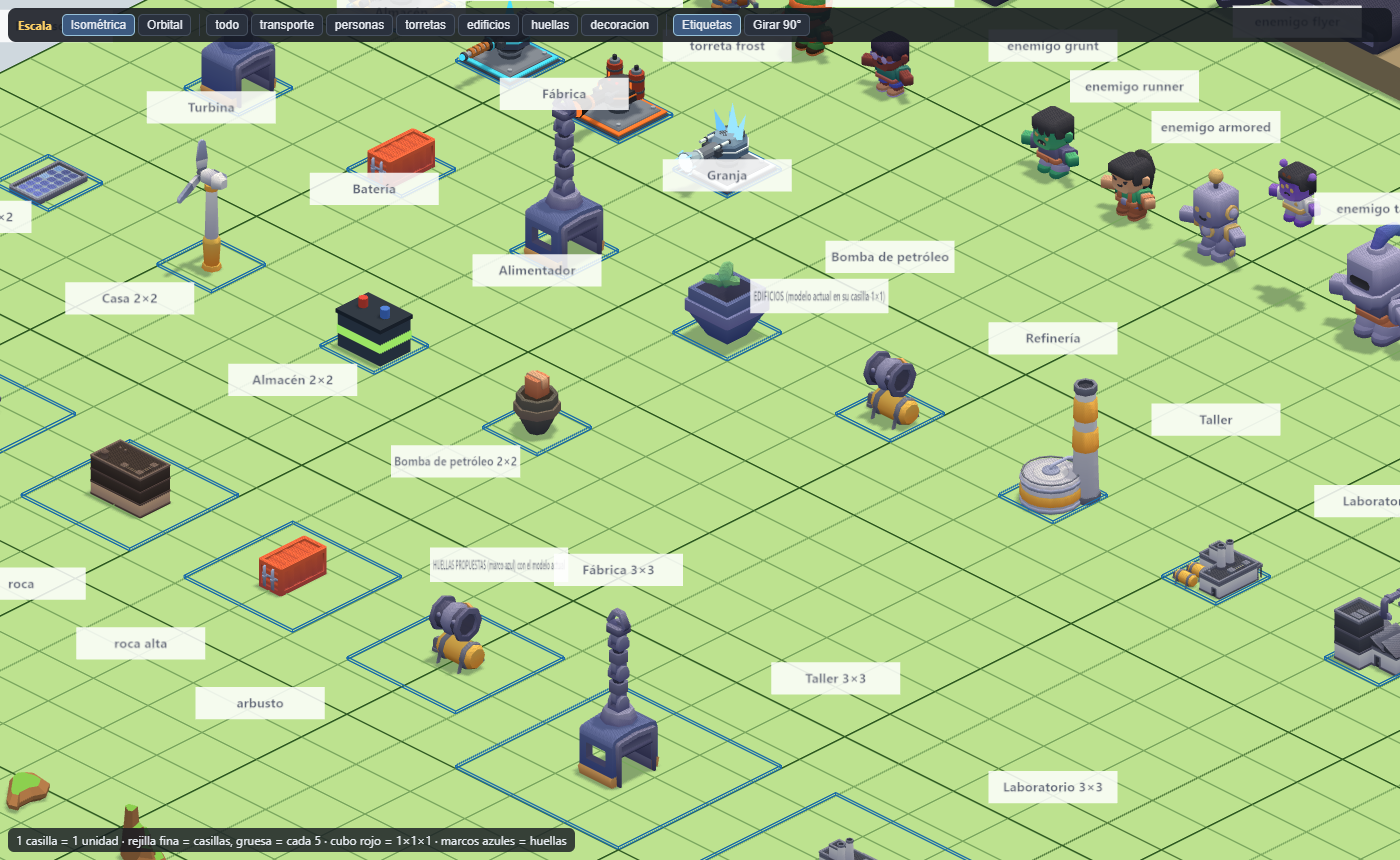
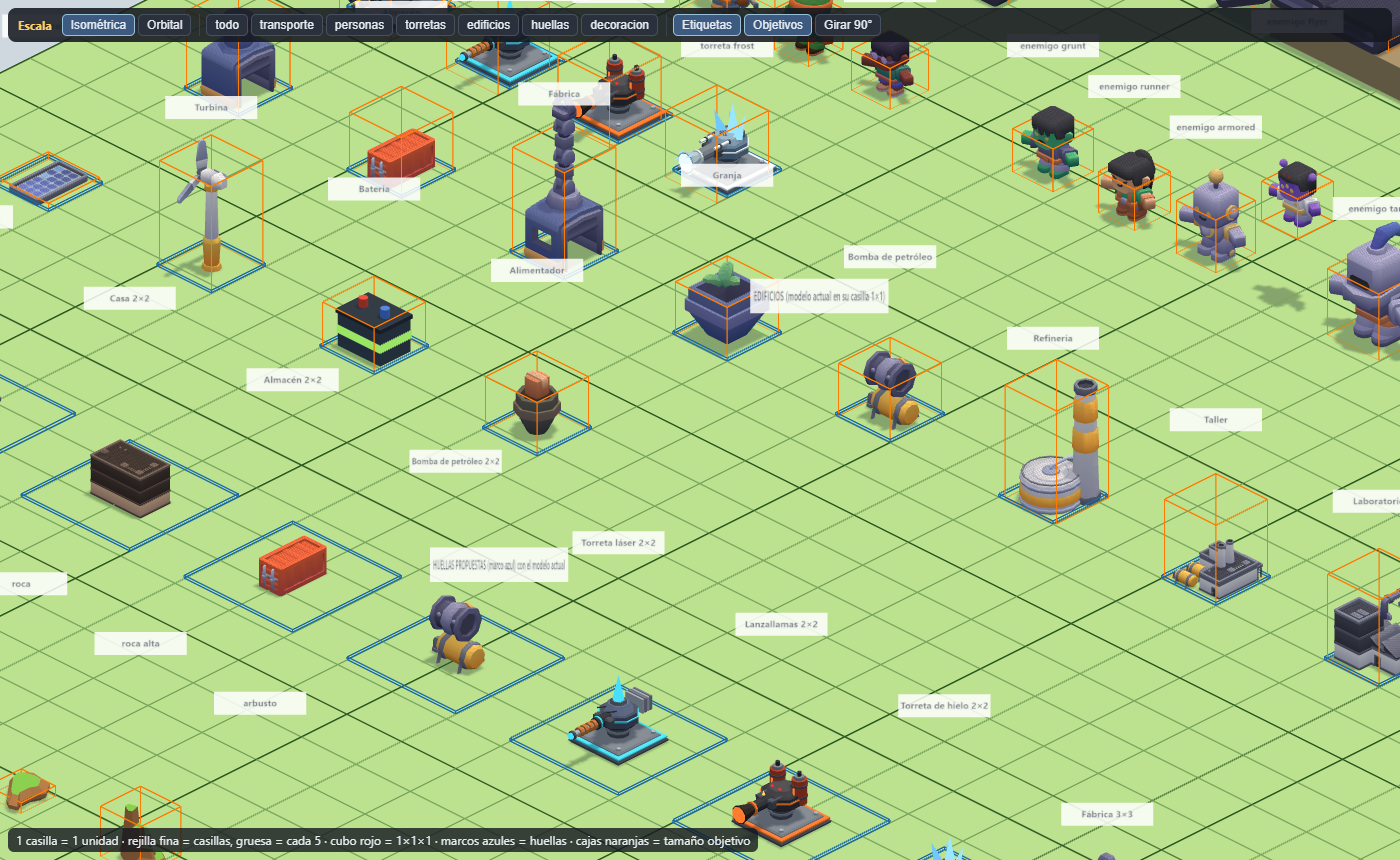
ESC-1: tabla de escala aprobada con cambios, cajas de objetivo en la galeria y registro de los detalles de encaje (ESC-6)

diff --git a/src/game/config.ts b/src/game/config.ts
@@ -207,6 +207,7 @@ export const CONFIG = {
     unit: 1,
     footprints: {
       drill: [2, 2], generator: [2, 2], house: [2, 2], storage: [2, 2], pump: [2, 2], core: [2, 2],
+      turret_laser: [2, 2], turret_fire: [2, 2], turret_frost: [2, 2],
       factory: [3, 3], workshop: [3, 3], laboratory: [3, 3], refinery: [3, 4], farm: [4, 4],
     } as Partial<Record<BuildKind | 'core', [number, number]>>,
     /**
@@ -215,26 +216,36 @@ export const CONFIG = {
      * las piezas encajen. Los edificios caben en su casilla (≤ `maxWidth`); cuando haya huellas se multiplican por ellas.
      */
     targets: {
-      belt: { w: 0.6, h: 0.15 }, belt_curve: { w: 0.6, h: 0.15 }, belt_fast: { w: 0.6, h: 0.15 }, belt_ramp: { w: 0.6, h: 0.15 },
+      belt: { w: 0.65, h: 0.18 }, belt_curve: { w: 0.65, h: 0.18 }, belt_fast: { w: 0.65, h: 0.18 }, belt_ramp: { w: 0.65, h: 0.18 },
       elevator: { w: 0.85, h: 1.2 },
-      pipeline: { w: 0.35, h: 0.42 }, pipeline_curve: { w: 0.35, h: 0.42 }, pipeline_t: { w: 0.35, h: 0.42 },
+      pipeline: { w: 0.35, h: 0.45 }, pipeline_curve: { w: 0.35, h: 0.45 }, pipeline_t: { w: 0.35, h: 0.45 },
       pole: { w: 0.7, h: 1.4 },
-      item_lump: { w: 0.24 }, item_log: { w: 0.28 }, item_slab: { w: 0.28 }, item_disc: { w: 0.24 }, item_shell: { w: 0.2 }, item_crate: { w: 0.22 },
+      item_lump: { w: 0.22 }, item_log: { w: 0.25 }, item_slab: { w: 0.25 }, item_disc: { w: 0.22 }, item_shell: { w: 0.18 }, item_crate: { w: 0.22 },
       npc_constructor: { h: 0.62 }, npc_transporter: { h: 0.62 }, npc_operator: { h: 0.62 }, npc_mechanic: { h: 0.62 }, npc_researcher: { h: 0.62 },
       enemy_grunt: { h: 0.65 }, enemy_runner: { h: 0.62 }, enemy_armored: { h: 0.8 }, enemy_flyer: { h: 0.6 }, enemy_tank: { h: 1.0 },
-      turret_bullet: { w: 0.9, h: 1.0 }, turret_laser: { w: 0.9, h: 1.0 }, turret_fire: { w: 0.9, h: 1.0 }, turret_frost: { w: 0.9, h: 1.0 },
-      drill: { w: 0.9, h: 1.2 }, storage: { w: 0.9, h: 0.55 }, factory: { w: 0.95, h: 1.6 }, farm: { w: 0.9, h: 0.8 }, pump: { w: 0.85, h: 0.8 },
-      refinery: { w: 0.95, h: 1.7 }, workshop: { w: 0.95, h: 1.1 }, laboratory: { w: 0.95, h: 1.3 }, house: { w: 0.95, h: 1.1 },
-      generator: { w: 0.85, h: 0.9 }, solar: { w: 0.95, h: 0.12 }, turbine: { w: 0.8, h: 1.6 }, accumulator: { w: 0.8, h: 0.6 }, feeder: { w: 0.7, h: 0.8 },
-      core: { w: 1.8, h: 1.2 },
+      turret_bullet: { h: 1.0 }, turret_laser: { h: 1.0 }, turret_fire: { h: 1.0 }, turret_frost: { h: 1.0 },
+      turret_2x2: { w: 1.8, h: 1.3 },
+      drill: { h: 1.2 }, storage: { h: 0.9 }, factory: { h: 1.6 }, farm: { h: 0.8 }, pump: { h: 0.8 },
+      refinery: { h: 1.7 }, workshop: { h: 1.2 }, laboratory: { h: 1.3 }, house: { h: 1.1 },
+      generator: { h: 0.9 }, solar: { h: 0.12 }, turbine: { h: 1.6 }, accumulator: { h: 0.7 }, feeder: { h: 0.8 },
+      core: { h: 1.4 },
       wall_wood: { h: 0.7 }, wall_stone: { h: 0.85 }, wall_metal: { h: 1.0 }, wall_gate: { h: 1.0 },
-      tree_default: { h: 1.35 }, tree_oak: { h: 1.2 }, tree_pineTallA: { h: 1.45 }, tree_fat: { h: 1.2 }, tree_cone: { h: 1.5 },
+      tree_default: { h: 1.3 }, tree_oak: { h: 1.15 }, tree_pineTallA: { h: 1.3 }, tree_fat: { h: 1.1 }, tree_cone: { h: 1.3 },
       rock_largeA: { w: 0.63 }, rock_tallA: { w: 0.74 }, plant_bush: { w: 0.48 },
     } as Record<string, { w?: number; h?: number }>,
-    /** Límites: ningún edificio pasa de esta altura ni de este ancho (casillas 1×1); carril útil de la cinta para los objetos. */
+    /** Ancho de un edificio como fracción de su huella (95 %): el ancho objetivo es `fill` × lado de la huella, no un valor absoluto. */
+    fill: 0.95,
+    /** Alturas mínimas por tipo (casillas): ninguna persona (0,62) es más alta que un edificio pequeño. La fábrica 1,4–2,0 (chimeneas hasta 2,4). */
+    minHeight: { house: 1.0, storage: 0.9, workshop: 1.2, laboratory: 1.2, factory: 1.4 } as Partial<Record<BuildKind, number>>,
+    maxFactoryHeight: 2.0,
+    maxChimneyHeight: 2.4,
+    /** Árboles: alto 1,0–1,3 y copa de 0,8 de ancho como máximo; se vuelven transparentes si tapan cintas o edificios. */
+    tree: { minHeight: 1.0, maxHeight: 1.3, maxCanopy: 0.8 },
     maxBuildingHeight: 1.8,
     maxWidth: 1,
     beltLane: 0.5,
+    /** Objetos transportados: lado máximo entre estos valores, apoyados sobre la cinta. */
+    itemSize: [0.15, 0.25] as [number, number],
   },
   belt: { speed: 2, fastSpeed: 4, rampUpFactor: 0.5 },
   /** Ascensor de cintas: salva hasta `maxRise` niveles; mueve `speed` casillas de cinta por segundo (limitado) y necesita energía. */

diff --git a/src/view3d/galeria-escala.ts b/src/view3d/galeria-escala.ts
@@ -252,6 +252,27 @@ export async function startScaleGallery(host: HTMLElement): Promise<void> {
   scene.add(cube);
   label('cubo 1×1×1', 30.5, 1.7, 30.5, 0.4);
 
+  // ---------- cajas de los tamaños objetivo (naranja) ----------
+  const targetBoxes = new THREE.Group();
+  scene.add(targetBoxes);
+  for (const e of entries) {
+    const t = CONFIG.scale.targets[e.key];
+    if (!t || e.cat === 'huella') continue;
+    e.group.updateMatrixWorld(true);
+    const bb = new THREE.Box3().setFromObject(e.group);
+    const size = bb.getSize(new THREE.Vector3());
+    const c = bb.getCenter(new THREE.Vector3());
+    const linear = /^(belt|pipeline)/.test(e.key);
+    const w0 = t.w ?? (e.cat === 'edificio' || e.cat === 'torreta' ? CONFIG.scale.fill * Math.max(...e.cell) : undefined);
+    const k = w0 !== undefined && t.h === undefined ? w0 / Math.max(size.x, size.z) : t.h !== undefined && w0 === undefined ? t.h / size.y : 1;
+    const ww = w0 ?? Math.max(size.x, size.z) * k;
+    const hh = t.h ?? size.y * k;
+    const box = new THREE.LineSegments(new THREE.EdgesGeometry(new THREE.BoxGeometry(linear ? 1 : ww, hh, ww)), new THREE.LineBasicMaterial({ color: 0xff7a00 }));
+    const base = e.cat === 'objeto' ? bb.min.y : e.baseY;
+    box.position.set(c.x, base + hh / 2, c.z);
+    targetBoxes.add(box);
+  }
+
   // ---------- cámaras ----------
   const rig = new CameraRig();
   rig.yaw = BASE_YAW;
@@ -334,6 +355,10 @@ export async function startScaleGallery(host: HTMLElement): Promise<void> {
       labels.visible = on;
       render();
     },
+    targets: (on: boolean) => {
+      targetBoxes.visible = on;
+      render();
+    },
     yaw: (steps: number) => {
       rig.yaw = BASE_YAW + (steps * Math.PI) / 2;
       render();
@@ -347,7 +372,7 @@ export async function startScaleGallery(host: HTMLElement): Promise<void> {
     '<b>Escala</b>' +
     '<span class="grp"><button data-mode="iso" class="on">Isométrica</button><button data-mode="orbit">Orbital</button></span>' +
     `<span class="grp">${Object.keys(ZONES).map((z) => `<button data-zone="${z}">${z}</button>`).join('')}</span>` +
-    '<span class="grp"><button data-act="labels" class="on">Etiquetas</button><button data-act="yaw">Girar 90°</button></span>';
+    '<span class="grp"><button data-act="labels" class="on">Etiquetas</button><button data-act="targets" class="on">Objetivos</button><button data-act="yaw">Girar 90°</button></span>';
   let yawSteps = 0;
   bar.addEventListener('click', (ev) => {
     const t = (ev.target as HTMLElement).closest('button');
@@ -358,6 +383,9 @@ export async function startScaleGallery(host: HTMLElement): Promise<void> {
     else if (t.dataset.act === 'labels') {
       t.classList.toggle('on');
       api.labels(t.classList.contains('on'));
+    } else if (t.dataset.act === 'targets') {
+      t.classList.toggle('on');
+      (window as unknown as { __esc: { targets: (b: boolean) => void } }).__esc.targets(t.classList.contains('on'));
     } else if (t.dataset.act === 'yaw') api.yaw(++yawSteps);
   });
   void tint;

diff --git a/galeria-escala.html b/galeria-escala.html
@@ -21,7 +21,7 @@
   <body>
     <div id="v"></div>
     <div id="bar"></div>
-    <div id="msg">1 casilla = 1 unidad · rejilla fina = casillas, gruesa = cada 5 · cubo rojo = 1×1×1 · marcos azules = huellas</div>
+    <div id="msg">1 casilla = 1 unidad · rejilla fina = casillas, gruesa = cada 5 · cubo rojo = 1×1×1 · marcos azules = huellas · cajas naranjas = tamaño objetivo</div>
     <script type="module">
       import { startScaleGallery } from '/src/view3d/galeria-escala.ts';
       startScaleGallery(document.getElementById('v'));

diff --git a/docs/escala/informe.md b/docs/escala/informe.md
@@ -4,20 +4,20 @@ Unidad: **1 casilla = 1 unidad de Three.js** (`CONFIG.scale.unit`). Medidas en c
 
 | Tipo | Modelo | Tamaño actual (ancho × fondo × alto) | Tamaño objetivo | Factor de escala | Base (y mín.) |
 |---|---|---|---|---|---|
-| cinta | cinta recta | 1 × 1 × 0.49 | ancho 0.6, alto 0.15 | sección ×0.60, alto ×0.31 | **-0.09** (hundida) |
-| cinta | curva | 1 × 1 × 0.54 | ancho 0.6, alto 0.15 | sección ×0.60, alto ×0.28 | **-0.09** (hundida) |
-| cinta | cinta rápida | 1 × 1 × 0.49 | ancho 0.6, alto 0.15 | sección ×0.60, alto ×0.31 | **-0.09** (hundida) |
-| cinta | rampa (sube 1) | 1.073 × 1 × 0.921 | ancho 0.6, alto 0.15 | sección ×0.60, alto ×0.16 | **-0.09** (hundida) |
+| cinta | cinta recta | 1 × 1 × 0.49 | ancho 0.65, alto 0.18 | sección ×0.65, alto ×0.37 | **-0.09** (hundida) |
+| cinta | curva | 1 × 1 × 0.54 | ancho 0.65, alto 0.18 | sección ×0.65, alto ×0.33 | **-0.09** (hundida) |
+| cinta | cinta rápida | 1 × 1 × 0.49 | ancho 0.65, alto 0.18 | sección ×0.65, alto ×0.37 | **-0.09** (hundida) |
+| cinta | rampa (sube 1) | 1.073 × 1 × 0.921 | ancho 0.65, alto 0.18 | sección ×0.65, alto ×0.20 | **-0.09** (hundida) |
 | cinta | ascensor | 0.8 × 0.8 × 1.3 | ancho 0.85, alto 1.2 | ancho ×1.06, alto ×0.92 | 0 |
-| tubería | tubería recta | 1.01 × 0.65 × 0.618 | ancho 0.35, alto 0.42 | sección ×0.54, alto ×0.68 | **-0.059** (hundida) |
-| tubería | tubería curva | 0.83 × 0.83 × 0.618 | ancho 0.35, alto 0.42 | sección ×0.42, alto ×0.68 | **-0.059** (hundida) |
-| tubería | tubería T | 1.01 × 0.83 × 0.618 | ancho 0.35, alto 0.42 | sección ×0.42, alto ×0.68 | **-0.059** (hundida) |
+| tubería | tubería recta | 1.01 × 0.65 × 0.618 | ancho 0.35, alto 0.45 | sección ×0.54, alto ×0.73 | **-0.059** (hundida) |
+| tubería | tubería curva | 0.83 × 0.83 × 0.618 | ancho 0.35, alto 0.45 | sección ×0.42, alto ×0.73 | **-0.059** (hundida) |
+| tubería | tubería T | 1.01 × 0.83 × 0.618 | ancho 0.35, alto 0.45 | sección ×0.42, alto ×0.73 | **-0.059** (hundida) |
 | poste | poste | 0.74 × 0.26 × 1.45 | ancho 0.7, alto 1.4 | ancho ×0.95, alto ×0.97 | 0 |
-| objeto | objeto lump | 0.243 × 0.243 × 0.243 | ancho 0.24 | ancho ×0.99 | 0.349 |
-| objeto | objeto log | 0.28 × 0.13 × 0.13 | ancho 0.28 | ancho ×1.00 | 0.36 |
-| objeto | objeto slab | 0.28 × 0.2 × 0.07 | ancho 0.28 | ancho ×1.00 | 0.36 |
-| objeto | objeto disc | 0.24 × 0.24 × 0.07 | ancho 0.24 | ancho ×1.00 | 0.36 |
-| objeto | objeto shell | 0.12 × 0.12 × 0.2 | ancho 0.2 | ancho ×1.67 | 0.36 |
+| objeto | objeto lump | 0.243 × 0.243 × 0.243 | ancho 0.22 | ancho ×0.91 | 0.349 |
+| objeto | objeto log | 0.28 × 0.13 × 0.13 | ancho 0.25 | ancho ×0.89 | 0.36 |
+| objeto | objeto slab | 0.28 × 0.2 × 0.07 | ancho 0.25 | ancho ×0.89 | 0.36 |
+| objeto | objeto disc | 0.24 × 0.24 × 0.07 | ancho 0.22 | ancho ×0.92 | 0.36 |
+| objeto | objeto shell | 0.12 × 0.12 × 0.2 | ancho 0.18 | ancho ×1.50 | 0.36 |
 | objeto | objeto crate | 0.22 × 0.22 × 0.18 | ancho 0.22 | ancho ×1.00 | 0.36 |
 | persona | NPC constructor | 0.898 × 0.543 × 0.964 | alto 0.62 | alto ×0.64 | 0 |
 | persona | NPC transporter | 0.898 × 0.398 × 0.785 | alto 0.62 | alto ×0.79 | 0 |
@@ -29,30 +29,30 @@ Unidad: **1 casilla = 1 unidad de Three.js** (`CONFIG.scale.unit`). Medidas en c
 | enemigo | enemigo armored | 1.148 × 0.481 × 1.263 | alto 0.8 | alto ×0.63 | 0 |
 | enemigo | enemigo flyer | 0.898 × 0.398 × 0.816 | alto 0.6 | alto ×0.74 | 0 |
 | enemigo | enemigo tank | 1.496 × 0.946 × 1.587 | alto 1 | alto ×0.63 | 0 |
-| torreta | torreta bullet | 0.92 × 1.3 × 0.672 | ancho 0.9, alto 1 | ancho ×0.69, alto ×1.49 | 0 |
-| torreta | torreta laser | 0.92 × 1.355 × 1.015 | ancho 0.9, alto 1 | ancho ×0.66, alto ×0.99 | 0 |
-| torreta | torreta fire | 0.92 × 1.25 × 0.81 | ancho 0.9, alto 1 | ancho ×0.72, alto ×1.23 | 0 |
-| torreta | torreta frost | 0.92 × 1.3 × 1.01 | ancho 0.9, alto 1 | ancho ×0.69, alto ×0.99 | 0 |
-| edificio | Taladro | 0.68 × 0.85 × 1.133 | ancho 0.9, alto 1.2 | ancho ×1.06, alto ×1.06 | 0 |
-| edificio | Almacén | 0.43 × 0.95 × 0.402 | ancho 0.9, alto 0.55 | ancho ×0.95, alto ×1.37 | 0 |
+| torreta | torreta bullet | 0.92 × 1.3 × 0.672 | ancho 0.95, alto 1 | ancho ×0.73, alto ×1.49 | 0 |
+| torreta | torreta laser | 0.92 × 1.355 × 1.015 | ancho 0.95, alto 1 | ancho ×0.70, alto ×0.99 | 0 |
+| torreta | torreta fire | 0.92 × 1.25 × 0.81 | ancho 0.95, alto 1 | ancho ×0.76, alto ×1.23 | 0 |
+| torreta | torreta frost | 0.92 × 1.3 × 1.01 | ancho 0.95, alto 1 | ancho ×0.73, alto ×0.99 | 0 |
+| edificio | Taladro | 0.68 × 0.85 × 1.133 | ancho 0.95, alto 1.2 | ancho ×1.12, alto ×1.06 | 0 |
+| edificio | Almacén | 0.43 × 0.95 × 0.402 | ancho 0.95, alto 0.9 | ancho ×1.00, alto ×2.24 | 0 |
 | edificio | Fábrica | 0.72 × 0.9 × 2.38 | ancho 0.95, alto 1.6 | ancho ×1.06, alto ×0.67 | 0 |
-| edificio | Granja | 0.8 × 0.8 × 0.939 | ancho 0.9, alto 0.8 | ancho ×1.13, alto ×0.85 | 0 |
-| edificio | Bomba de petróleo | 0.8 × 0.5 × 0.884 | ancho 0.85, alto 0.8 | ancho ×1.06, alto ×0.90 | 0 |
+| edificio | Granja | 0.8 × 0.8 × 0.939 | ancho 0.95, alto 0.8 | ancho ×1.19, alto ×0.85 | 0 |
+| edificio | Bomba de petróleo | 0.8 × 0.5 × 0.884 | ancho 0.95, alto 0.8 | ancho ×1.19, alto ×0.90 | 0 |
 | edificio | Refinería | 0.912 × 0.95 × 1.711 | ancho 0.95, alto 1.7 | ancho ×1.00, alto ×0.99 | 0 |
-| edificio | Taller | 0.845 × 0.95 × 0.563 | ancho 0.95, alto 1.1 | ancho ×1.00, alto ×1.95 | 0 |
+| edificio | Taller | 0.845 × 0.95 × 0.563 | ancho 0.95, alto 1.2 | ancho ×1.00, alto ×2.13 | 0 |
 | edificio | Laboratorio | 0.95 × 0.738 × 1.026 | ancho 0.95, alto 1.3 | ancho ×1.00, alto ×1.27 | 0 |
 | edificio | Casa | 0.95 × 0.623 × 0.67 | ancho 0.95, alto 1.1 | ancho ×1.00, alto ×1.64 | 0 |
-| edificio | Generador | 0.5 × 0.8 × 0.909 | ancho 0.85, alto 0.9 | ancho ×1.06, alto ×0.99 | 0 |
+| edificio | Generador | 0.5 × 0.8 × 0.909 | ancho 0.95, alto 0.9 | ancho ×1.19, alto ×0.99 | 0 |
 | edificio | Panel solar | 0.557 × 0.95 × 0.082 | ancho 0.95, alto 0.12 | ancho ×1.00, alto ×1.46 | 0 |
-| edificio | Turbina | 0.483 × 0.9 × 1.848 | ancho 0.8, alto 1.6 | ancho ×0.89, alto ×0.87 | 0 |
-| edificio | Batería | 0.82 × 0.6 × 0.69 | ancho 0.8, alto 0.6 | ancho ×0.98, alto ×0.87 | 0 |
-| edificio | Alimentador | 0.62 × 0.62 × 0.832 | ancho 0.7, alto 0.8 | ancho ×1.13, alto ×0.96 | 0 |
-| edificio | núcleo (2×2) | 1.8 × 1.784 × 0.999 | ancho 1.8, alto 1.2 | ancho ×1.00, alto ×1.20 | 0 |
-| decoración | árbol | 0.755 × 0.654 × 1.708 | alto 1.35 | alto ×0.79 | 0 |
-| decoración | roble | 0.641 × 0.74 × 1.226 | alto 1.2 | alto ×0.98 | 0 |
-| decoración | pino | 0.367 × 0.372 × 1.453 | alto 1.45 | alto ×1.00 | 0 |
-| decoración | árbol grueso | 0.868 × 0.752 × 1.323 | alto 1.2 | alto ×0.91 | 0 |
-| decoración | pino grande | 0.662 × 0.662 × 1.788 | alto 1.5 | alto ×0.84 | 0 |
+| edificio | Turbina | 0.483 × 0.9 × 1.848 | ancho 0.95, alto 1.6 | ancho ×1.06, alto ×0.87 | 0 |
+| edificio | Batería | 0.82 × 0.6 × 0.69 | ancho 0.95, alto 0.7 | ancho ×1.16, alto ×1.01 | 0 |
+| edificio | Alimentador | 0.62 × 0.62 × 0.832 | ancho 0.95, alto 0.8 | ancho ×1.53, alto ×0.96 | 0 |
+| edificio | núcleo (2×2) | 1.8 × 1.784 × 0.999 | ancho 1.9, alto 1.4 | ancho ×1.06, alto ×1.40 | 0 |
+| decoración | árbol | 0.755 × 0.654 × 1.708 | alto 1.3 | alto ×0.76 | 0 |
+| decoración | roble | 0.641 × 0.74 × 1.226 | alto 1.15 | alto ×0.94 | 0 |
+| decoración | pino | 0.367 × 0.372 × 1.453 | alto 1.3 | alto ×0.89 | 0 |
+| decoración | árbol grueso | 0.868 × 0.752 × 1.323 | alto 1.1 | alto ×0.83 | 0 |
+| decoración | pino grande | 0.662 × 0.662 × 1.788 | alto 1.3 | alto ×0.73 | 0 |
 | decoración | roca | 0.628 × 0.812 × 0.208 | ancho 0.63 | ancho ×0.78 | 0 |
 | decoración | roca alta | 0.737 × 0.512 × 0.747 | ancho 0.74 | ancho ×1.00 | 0 |
 | decoración | arbusto | 0.475 × 0.475 × 0.293 | ancho 0.48 | ancho ×1.01 | 0 |

diff --git a/SPEC.md b/SPEC.md
@@ -880,3 +880,7 @@ Sólo capa visual y constantes de escala; la lógica y el equilibrio no cambian.
 - **Tabla de tamaños objetivo** (`CONFIG.scale.targets`, en casillas; informe completo en `docs/escala/informe.md`): cinta ancho 0,6 × alto 0,15 (1 de largo para que encajen); tubería diámetro 0,35 (con bridas 0,42 de alto); poste alto 1,4; objeto transportado 0,2–0,28; persona 0,62 de alto (enemigos 0,6–0,8, el *tank* 1,0); torretas 0,9 × 1,0; edificios ≤ 0,95 de ancho y 0,55–1,7 de alto según tipo (almacén y panel solar bajos, fábrica y refinería los mayores); muros 0,7–1,0; árboles 1,2–1,5; ningún edificio pasa de `maxBuildingHeight` = 1,8; carril útil de la cinta `beltLane` = 0,5.
 - **Hallazgos de la auditoría** (`docs/escala/medidas.json`, `tools/informe-escala.cjs`): la cinta mide **1 × 1 × 0,49** (casi un bloque de casilla entera) y su caja baja **0,09 por debajo del suelo**; las tuberías bajan 0,06; los objetos sobre la cinta (0,12–0,28) se apoyan a 0,35–0,36 con la cinta a 0,4 (se hunden); las personas miden 0,79–0,96 y el almacén 0,40 (la persona es más alta que el almacén); la fábrica mide 2,38 de alto por 0,72 de ancho; el muro de metal 1,47; los árboles 1,2–1,7.
 - **Galería de escala** (`/galeria-escala.html`, `src/view3d/galeria-escala.ts`): rejilla de casillas (fina) y cada 5 (gruesa), cubo rojo 1×1×1, y colocados a la vez: cintas (recta, curva, rápida, rampa), ascensor, tuberías (recta, curva, T), poste, un objeto de cada forma sobre la cinta, las cinco personas y enemigos, las cuatro torretas, todos los edificios con su casilla, las huellas propuestas, árboles, rocas, arbusto y muros. Vista isométrica fija (la del juego, con giro de 90°) y cámara orbital; zonas con botones. Para automatizar: `window.__esc` (`mode`, `focus`, `labels`, `yaw`, `report`). Capturas en `docs/escala/`.
+
+### Escala: tabla aprobada con cambios (15-11-2026) y detalles de encaje pedidos
+Cambios aprobados sobre la tabla (ya en `CONFIG.scale` y en el informe): (1) el ancho de un edificio es el **95 % de su huella** (`scale.fill`), no un valor absoluto; (2) alturas mínimas: casa ≥ 1,0, almacén ≥ 0,9, taller y laboratorio ≥ 1,2, fábrica 1,4–2,0 (chimeneas hasta 2,4) para que ninguna persona (0,62) sea más alta que un edificio pequeño; (3) **cinta 0,65 × 0,18** con bordes laterales más claros y objetos de 0,15–0,25 apoyados sobre la superficie (`itemSize`); (4) árboles de 1,0–1,3 de alto con copa ≤ 0,8 y **transparencia** cuando tapen cintas o edificios; (5) torretas 2×2 ≈ 1,8 × 1,3 (`turret_2x2`; laser, fuego y hielo pasan a 2×2 en las huellas propuestas, la de balas sigue 1×1); tubería diámetro 0,35 con bridas hasta 0,45; y se corrige el **hundimiento** (cinta −0,09, tuberías −0,06) con la misma comprobación para todo (Hito 3). Las cajas naranjas de la galería dibujan estos objetivos sobre cada modelo.
+**Detalles de encaje y referencia visual (nuevo encargo; se harán tras el visto bueno de la galería, en el Hito 6 `ESC-6`):** tomar como referencia `Preview.png` y `Preview (Variation A).png` del Factory Kit y de City Kit Industrial. (a) **Conectores físicos en los puertos:** tramo corto de cinta (`conveyor-sides`) que sobresale en los de cinta, tolva pequeña (`hopper-square`/`hopper-round`) como entrada de sólidos cuando quede bien, y `machine-connection-pipe`, `machine-connection-hole` o una brida de `pipe-large` en los de tubería; la cinta o tubería que se conecta encaja en la pieza sin huecos. (b) **Luz de estado** tipo semáforo si el kit la trae (verde, naranja, rojo según el estado, además del icono flotante y el diagnóstico). (c) **Conos** (`cone`) y marcas naranjas de suelo para obras y casillas prohibidas; **flechas** (`arrow*`, `arrow-rounded`) como indicador del sentido de los puertos y de las rutas de Conectar. (d) Opcional, baja prioridad: brazo robótico (`robot-arm-a/b`) animado en fábricas que producen y grúa (`crane`, `crane-lift`) en el almacén, sólo adorno. (e) **Se mantiene:** no usar máquinas, paredes ni estructuras grandes del Factory Kit como edificios del juego (sólo transporte y detalles pequeños) y las cajas (`box-*`) siguen reservadas para el aspecto de los materiales. **Disponibilidad:** en `public/assets/3d/factory/` ya están `conveyor-sides`, `hopper-*`, `machine-connection-*`, `pipe-large*`, `arrow`, `robot-arm-a/b`, `crane`; **faltan** (están en `kenney_factory-kit_3.0.zip` de Descargas, se copiarán sólo los usados con su licencia): `cone`, `arrow-rounded`, `crane-lift` y las `indicator-special-*` (marcas de suelo). No he encontrado en la lista un semáforo con ese nombre: se revisará la preview o se construirá por código.

diff --git a/PROGRESS.md b/PROGRESS.md
@@ -163,9 +163,10 @@ Regla: tras cada hito, tests + tipos + build en verde, commit y push a `main`.
 - [x] CON-B5. Resaltado de cadenas (`cadena.ts`: aguas arriba y abajo con flechas que corren), vista de logística (tecla L: mapa atenuado, todas las flechas de puertos y líneas por colores), texto de cada puerto bajo el ratón (tipo, sentido, estado, qué conectar), ayuda y guía actualizadas, y 3 tests (cadenas, empalme y guardado/carga de puertos y redes). **No hecho:** el bot de la guía sigue con su propio trazado (`guia-bot.ts connect`); no usa Conectar porque el núcleo aún no tiene puertos en `ports()`.
 
 ## Escala de la vista 3D (reglas en SPEC.md; sólo capa visual)
-- [x] ESC-0. Auditoría: unidad única (`CONFIG.scale`), medidas de todos los modelos (`docs/escala/medidas.json`), tabla objetivo y informe `docs/escala/informe.md`. **Parado: esperando visto bueno del informe.**
+- [x] ESC-0. Auditoría: unidad única (`CONFIG.scale`), medidas de todos los modelos (`docs/escala/medidas.json`), tabla objetivo y informe `docs/escala/informe.md`. Tabla aprobada con cambios (15-11-2026): `CONFIG.scale` actualizada. **Parado: esperando visto bueno de las capturas.**
 - [x] ESC-1. Galería de escala `/galeria-escala.html` (isométrica fija y orbital) y capturas en `docs/escala/`. **Parado: esperando visto bueno.**
 - [ ] ESC-2. Cintas, tuberías, postes y objetos transportados con el tamaño objetivo.
 - [ ] ESC-3. Hundimiento en el terreno (causa, regla de base y test con desniveles).
 - [ ] ESC-4. Escala del resto (registro de aspectos con un factor por modelo, y tests de proporciones).
 - [ ] ESC-5. Revisión final con capturas.
+- [ ] ESC-6. Detalles de encaje (conectores físicos en puertos, luz de estado, conos y marcas de suelo, flechas, adornos animados opcionales) según la referencia del Factory Kit; ver SPEC.md.
